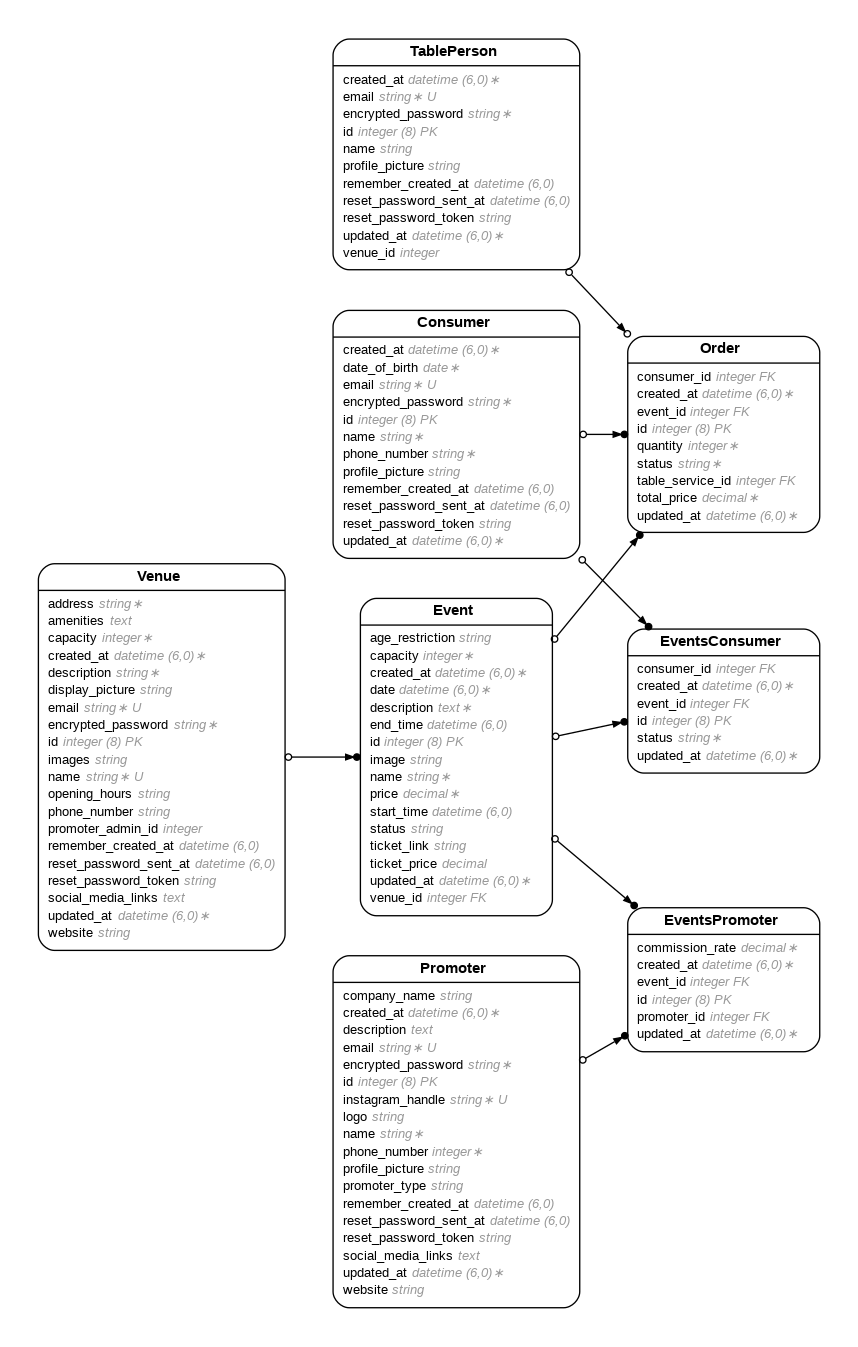
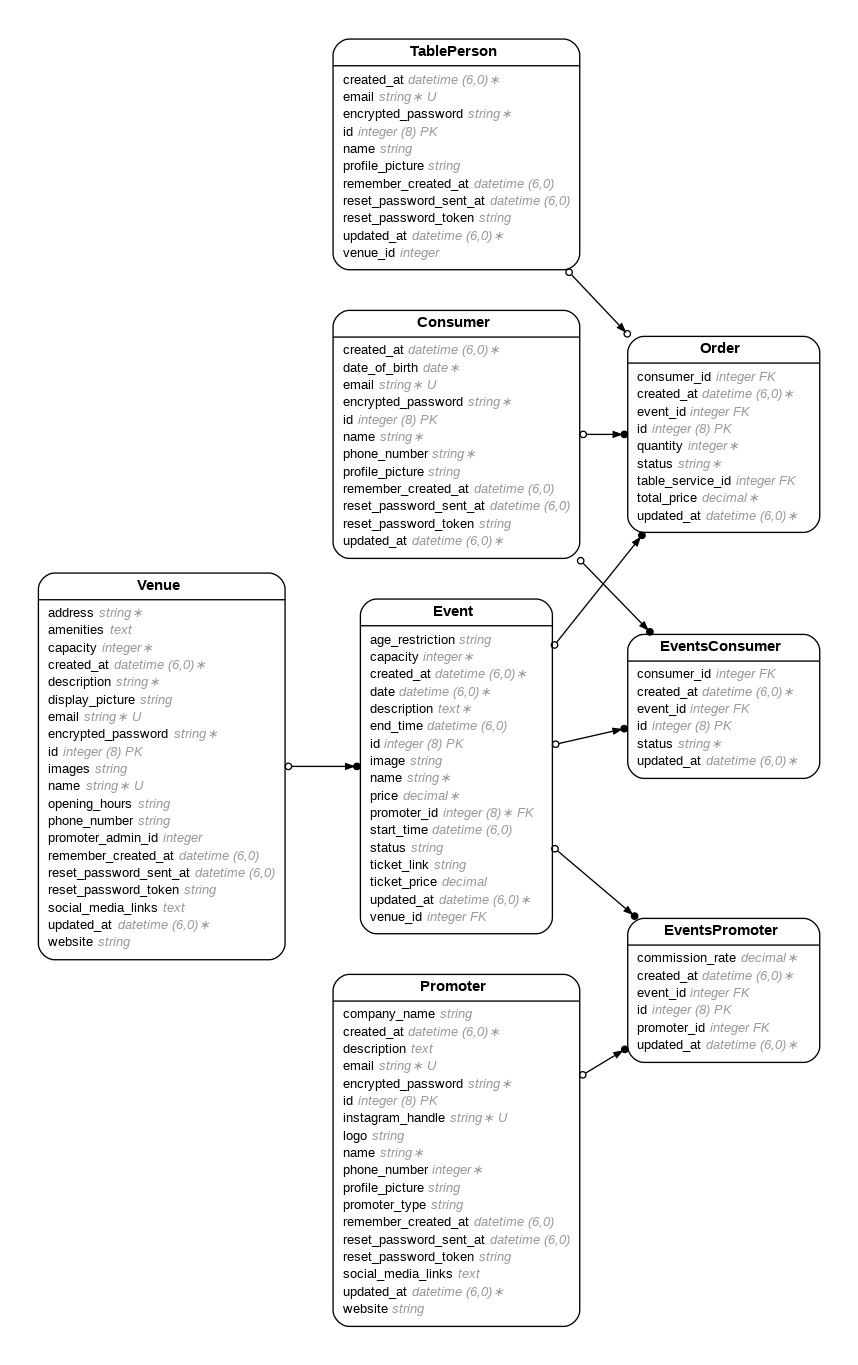
asdasda

diff --git a/db/schema.rb b/db/schema.rb
@@ -10,7 +10,7 @@
 #
 # It's strongly recommended that you check this file into your version control system.
 
-ActiveRecord::Schema[7.1].define(version: 2024_12_14_184357) do
+ActiveRecord::Schema[7.1].define(version: 2024_12_14_194232) do
   # These are extensions that must be enabled in order to support this database
   enable_extension "plpgsql"
 
@@ -46,6 +46,8 @@ ActiveRecord::Schema[7.1].define(version: 2024_12_14_184357) do
     t.integer "capacity"
     t.datetime "date"
     t.decimal "price"
+    t.bigint "promoter_id", null: false
+    t.index ["promoter_id"], name: "index_events_on_promoter_id"
   end
 
   create_table "events_consumers", force: :cascade do |t|
@@ -136,4 +138,5 @@ ActiveRecord::Schema[7.1].define(version: 2024_12_14_184357) do
     t.index ["reset_password_token"], name: "index_venues_on_reset_password_token", unique: true
   end
 
+  add_foreign_key "events", "promoters"
 end

diff --git a/app/models/event.rb b/app/models/event.rb
@@ -17,7 +17,16 @@
 #  ticket_price    :decimal(, )
 #  created_at      :datetime         not null
 #  updated_at      :datetime         not null
+#  promoter_id     :bigint           not null
 #  venue_id        :integer
+#
+# Indexes
+#
+#  index_events_on_promoter_id  (promoter_id)
+#
+# Foreign Keys
+#
+#  fk_rails_...  (promoter_id => promoters.id)
 #
 class Event < ApplicationRecord
   # Relationships

diff --git a/db/migrate/20241214194232_add_promoter_to_events.rb b/db/migrate/20241214194232_add_promoter_to_events.rb
@@ -1,0 +1,5 @@
+class AddPromoterToEvents < ActiveRecord::Migration[7.1]
+  def change
+    add_reference :events, :promoter, null: false, foreign_key: true
+  end
+end
